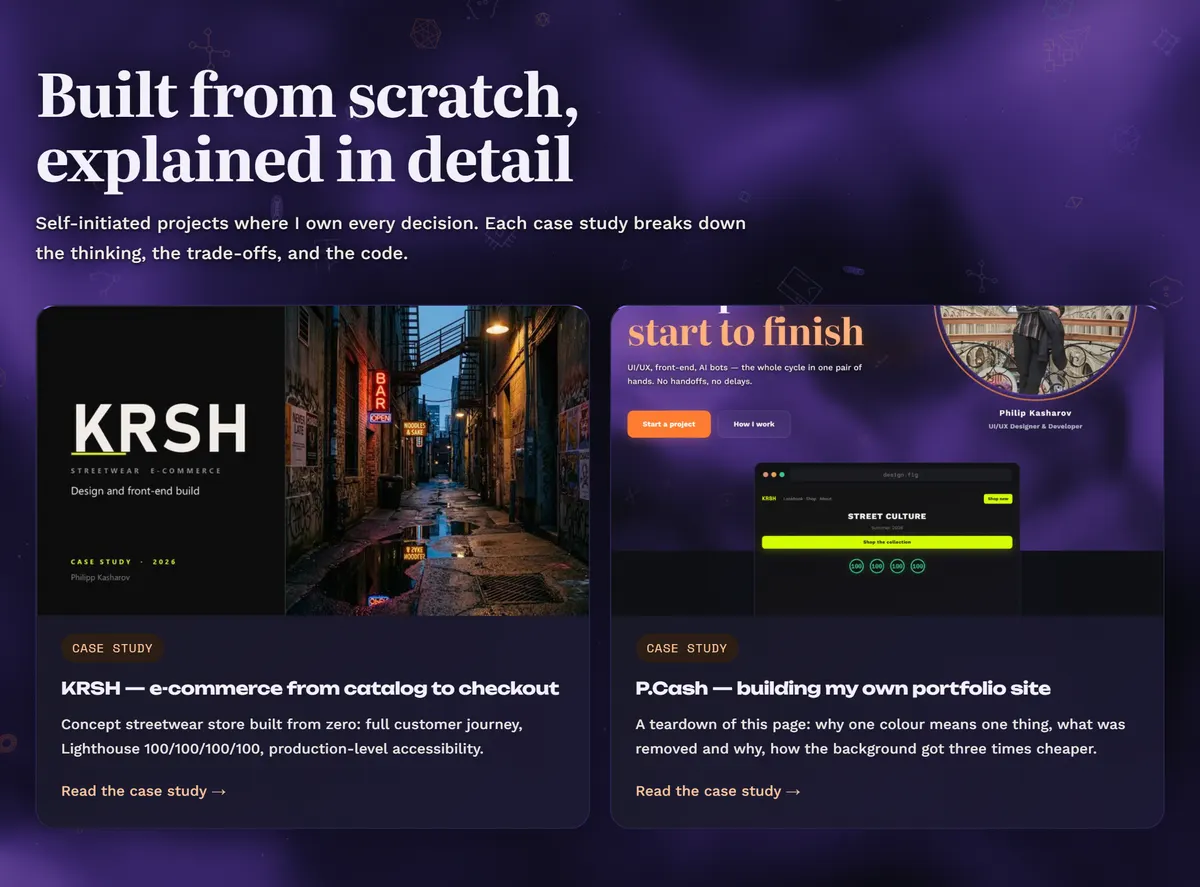
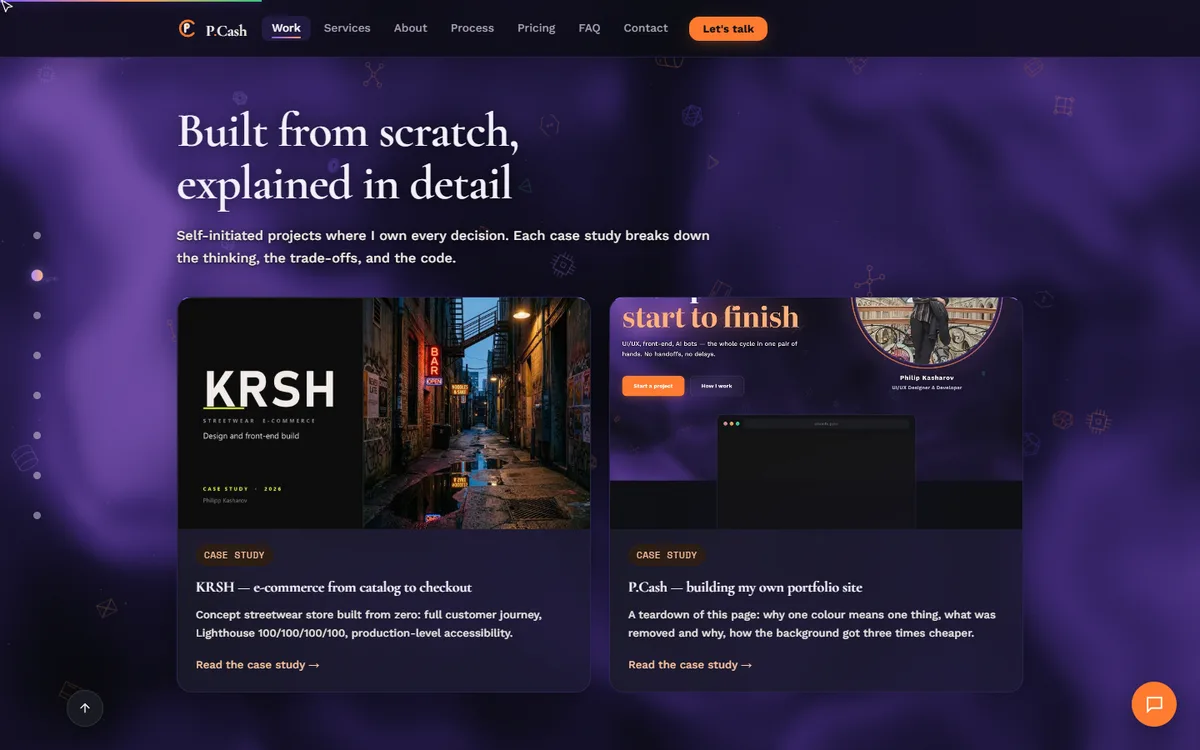
Fresh case study screenshots, fix pricing heading and footer nav color
- Recapture all 6 case-pcash screenshots from live site
- Remove "interactive" from pricing eyebrow
- Center pricing heading with width: fit-content + margin auto
- Change footer nav headings (Pages, Case Studies, Connect) to orange

diff --git a/pricing.html b/pricing.html
@@ -19,10 +19,10 @@
 <link rel="stylesheet" href="style.css?v=128">
 <style>
   /* transparent — the shared liquid WebGL background shows through */
-  .price-stage { perspective: 1600px; padding: 40px 0 64px; background: none; }
+  .price-stage { perspective: 1600px; padding: 40px 0 64px; background: none; text-align: center; }
   .price-head { text-align: center; max-width: 720px; margin: 0 auto 34px; }
   .price-head .eyebrow { font-family: var(--font-mono); font-size: 12px; letter-spacing: 0.16em; color: var(--amber-ink); text-transform: uppercase; margin: 0 0 14px; }
-  .price-head h1 { font-family: var(--font-display); font-size: clamp(30px, 5vw, 46px); font-weight: 500; line-height: 1.08; margin: 0 0 14px; letter-spacing: -0.01em; text-wrap: balance; }
+  .price-head h1 { font-family: var(--font-display); font-size: clamp(30px, 5vw, 46px); font-weight: 500; line-height: 1.08; margin: 0 auto 14px; letter-spacing: -0.01em; width: fit-content; }
   .price-head h1 em { font-style: normal; color: var(--accent); }
   .price-head .sub { font-size: 15px; color: var(--ink-soft); line-height: 1.6; margin: 0; }
 
@@ -37,7 +37,7 @@
   @keyframes priceRise { from { opacity: 0; transform: translateY(24px) rotateX(-6deg); } to { opacity: 1; transform: translateY(0) rotateX(0); } }
   .tagline { text-align: center; font-family: var(--font-mono); font-size: 13px; color: var(--amber-ink); margin: 0 0 26px; letter-spacing: 0.02em; }
 
-  .price-grid { display: grid; grid-template-columns: repeat(auto-fit, minmax(232px, 1fr)); gap: 22px; }
+  .price-grid { display: grid; grid-template-columns: repeat(auto-fit, minmax(232px, 1fr)); gap: 22px; text-align: left; }
   .pcard { position: relative; min-height: 200px; border-radius: 16px; border: 1px solid rgba(255,255,255,0.09); background: #0A0B0F; padding: 22px 20px; display: flex; flex-direction: column; justify-content: space-between; gap: 14px; box-shadow: 0 8px 28px rgba(0,0,0,0.45), 0 24px 60px rgba(0,0,0,0.3); transition: border-color 0.25s, transform 0.35s cubic-bezier(0.2,0.8,0.2,1), box-shadow 0.35s; }
   .pcard:hover { border-color: rgba(124,92,255,0.4); }
   .pcard.recommended { border-color: rgba(124,92,255,0.35); }
@@ -90,7 +90,7 @@
 
 <main class="price-stage" id="top">
   <div class="price-head">
-    <p class="eyebrow" >Pricing · interactive</p>
+    <p class="eyebrow" >Pricing</p>
     <h1 >Sites · Automation · UX</h1>
     <p class="sub" >Pick a category and compare packages. Recommended option is marked.</p>
   </div>

diff --git a/style.css b/style.css
@@ -605,7 +605,7 @@ body.loaded .shard.s5 { animation-delay: 0.35s; }
 .footer-brand .logo { display: inline-flex; align-items: center; gap: 8px; font-size: 16px; font-weight: 600; color: var(--ink); margin-bottom: 10px; }
 .footer-tagline { font-size: 13px; color: var(--ink-soft); line-height: 1.5; max-width: 22ch; }
 .footer-nav { display: flex; flex-direction: column; gap: 8px; }
-.footer-nav-heading { font-family: var(--font-mono); font-size: 11px; letter-spacing: 0.1em; text-transform: uppercase; color: var(--ink); margin-bottom: 4px; }
+.footer-nav-heading { font-family: var(--font-mono); font-size: 11px; letter-spacing: 0.1em; text-transform: uppercase; color: var(--accent); margin-bottom: 4px; }
 .footer-nav a { color: var(--ink-soft); font-size: 13px; transition: color 0.2s; }
 .footer-nav a:hover { color: var(--accent); }
 .footer-connect { display: flex; flex-direction: column; gap: 10px; }
